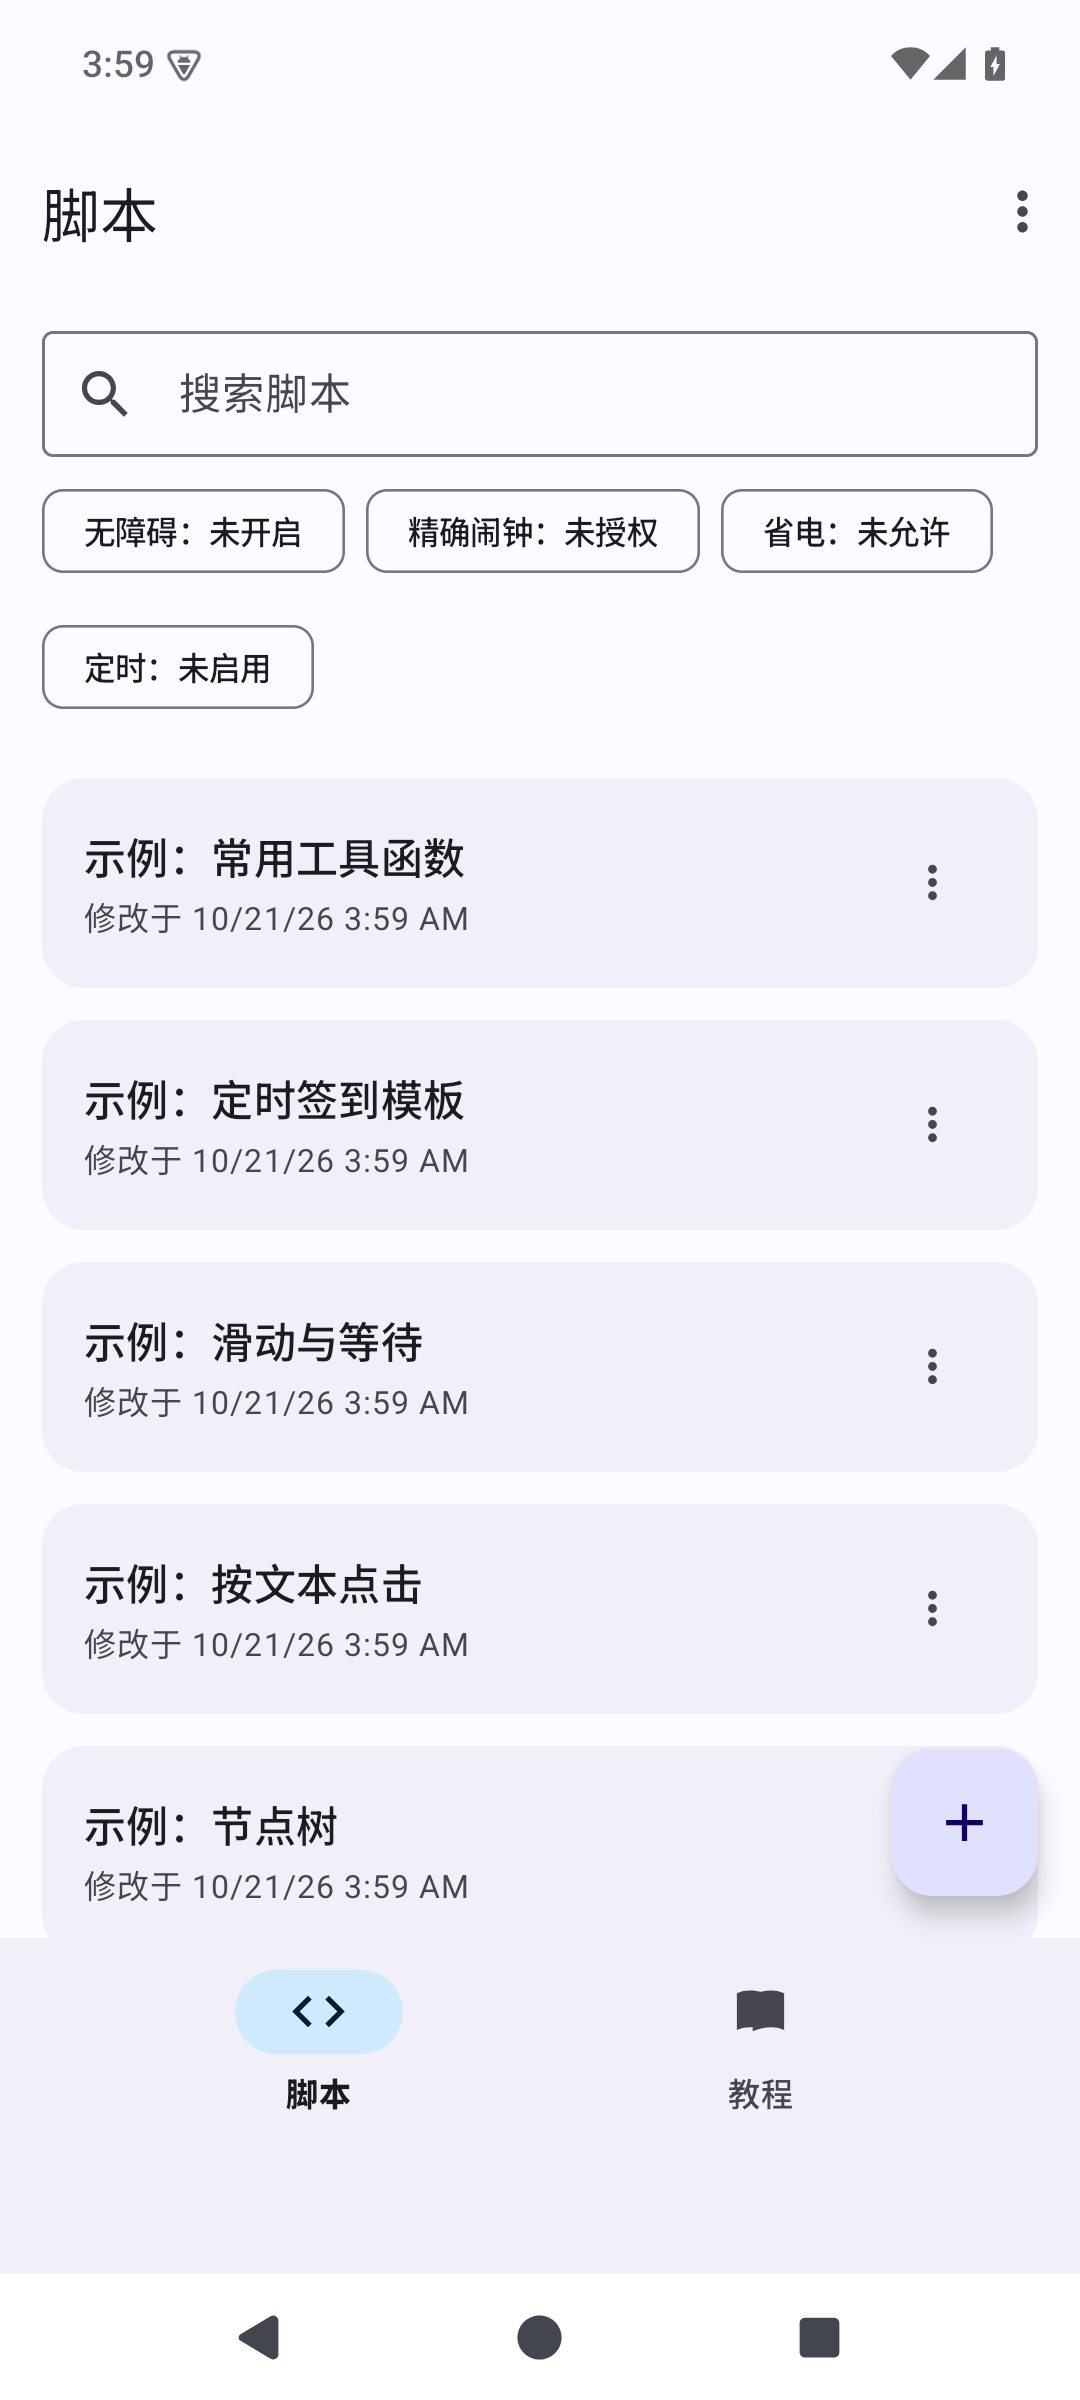
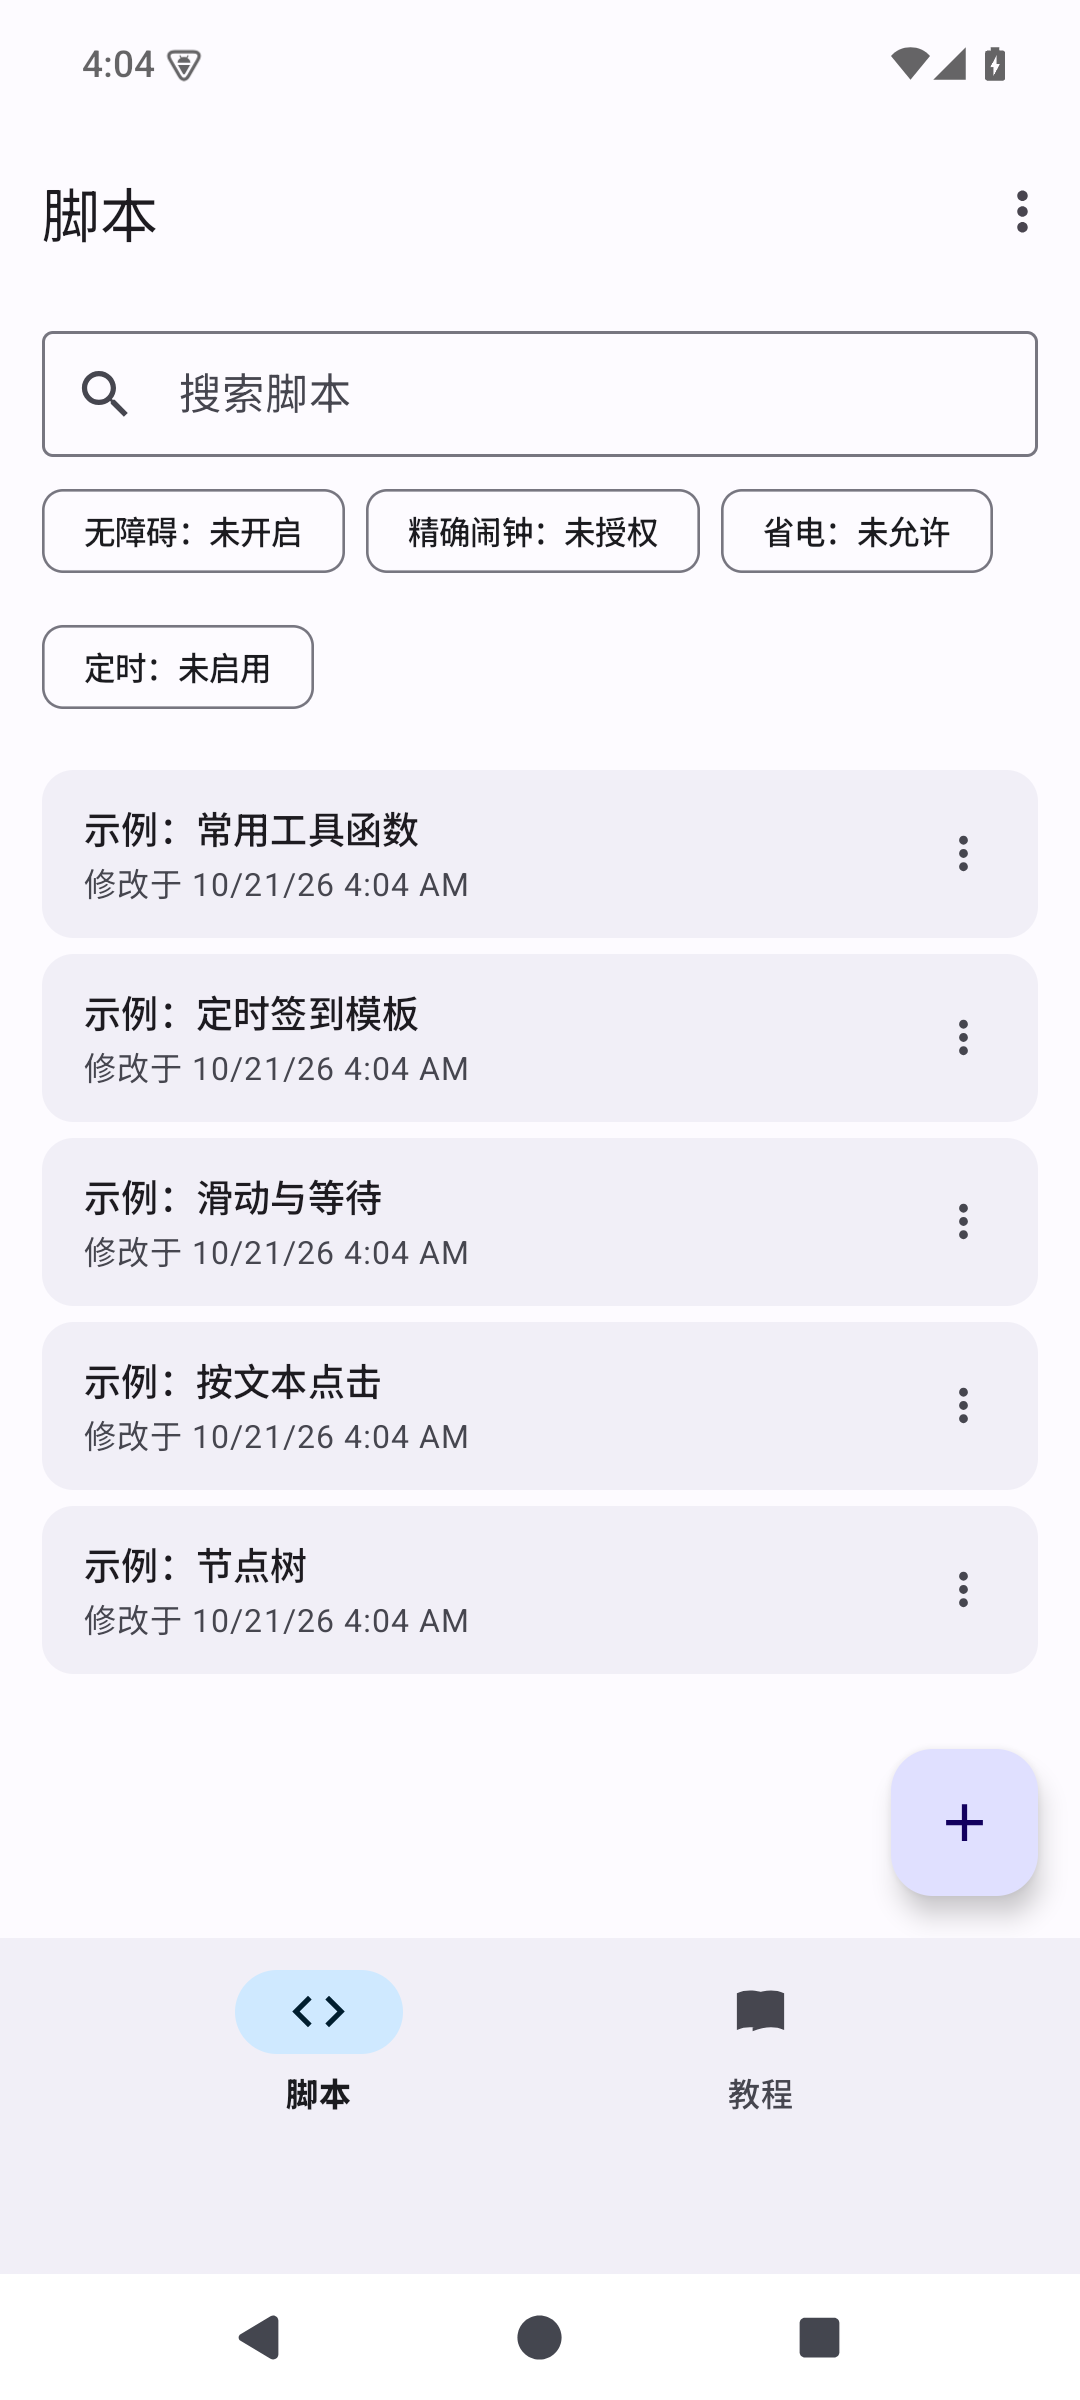
压缩脚本与文件夹列表排版

diff --git a/app/src/main/java/com/microauto/ui/LibraryAdapter.kt b/app/src/main/java/com/microauto/ui/LibraryAdapter.kt
@@ -3,7 +3,6 @@ package com.microauto.ui
 import android.view.LayoutInflater
 import android.view.View
 import android.view.ViewGroup
-import androidx.core.view.isVisible
 import androidx.recyclerview.widget.RecyclerView
 import com.microauto.databinding.ItemFolderBinding
 import com.microauto.databinding.ItemScriptBinding
@@ -68,10 +67,12 @@ class LibraryAdapter(
     ) : RecyclerView.ViewHolder(binding.root) {
         fun bind(meta: ScriptMeta) {
             binding.nameText.text = meta.name
-            binding.metaText.text = subtitle(meta)
             val scheduleText = schedule(meta)
-            binding.scheduleChip.isVisible = scheduleText != null
-            binding.scheduleChip.text = scheduleText.orEmpty()
+            binding.metaText.text = if (scheduleText != null) {
+                "$scheduleText · ${subtitle(meta)}"
+            } else {
+                subtitle(meta)
+            }
             binding.root.setOnClickListener { onScriptClick(meta) }
             binding.moreButton.setOnClickListener { onScriptMenu(meta, it) }
         }
